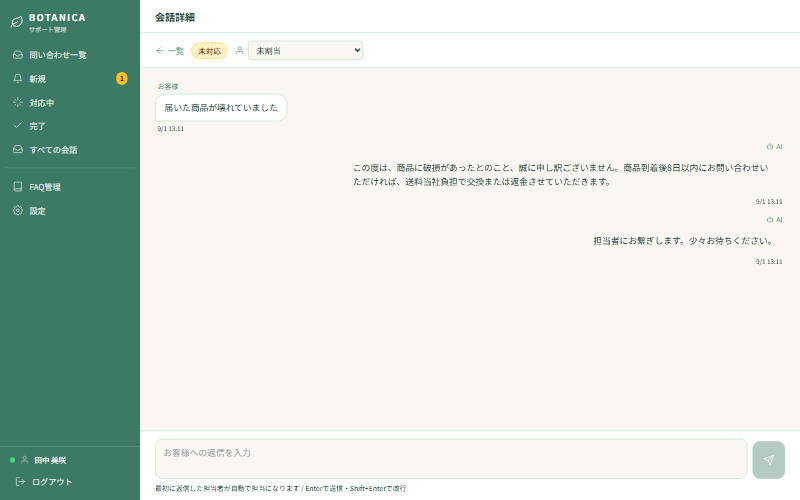
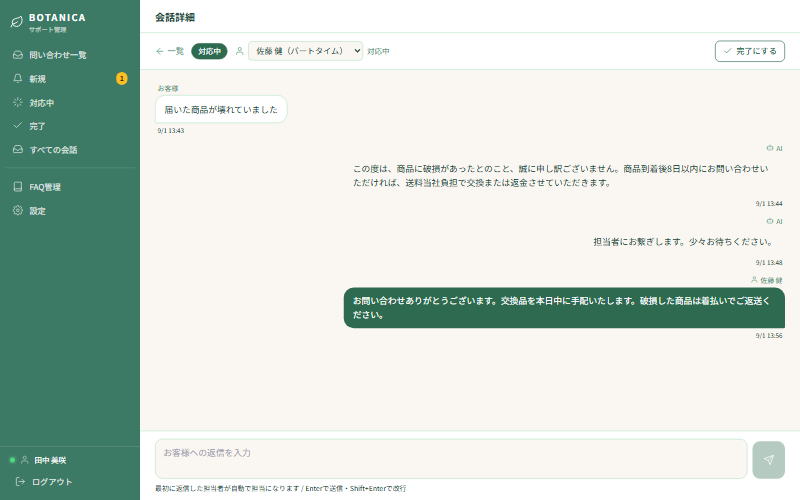
feat: 問い合わせ一覧を未完了のみに絞り込み納品スクショを更新する
「問い合わせ一覧」と「すべての会話」が同じ結果を返しており、
メニューが2つとも同じ働きをしていた。

既定表示（/dashboard）を未完了3ステータス
（ai_handling / waiting_operator / operator_handling）に絞り、
完了済みを含む全件は「すべての会話」（?status=all）で見る形にした。

【絞り込む理由】
一覧は updated_at の降順で最新200件までしか取らない。
完了済みも同じ枠を使うため、件数が増えると対応が必要な古い問い合わせが
200件の外へ押し出されて見えなくなる。月500件のペースだと約12日分で埋まる。
日常業務で見たいのは「対応が必要なもの」なので既定表示は未完了に絞る。

FR-OPS-003「全会話をステータス別で一覧表示する」は、
「すべての会話」と各ステータスタブで引き続き満たしている。

あわせて納品用スクリーンショットを実務フロー想定の内容に更新した。
これまで operator-list.png は1件しか写っておらず、
マニュアルで説明している4つのステータスが伝わらなかった。
AIの回答文は登録済みFAQの本文と検証で確認した実応答をそのまま使い、
テスト用の目印は入れていない。

- operator-list.png   未完了3件（AI対応中・未対応・対応中）
- operator-detail.png 質問→AI案内→引き継ぎ→担当者の返信の一連の流れ

マニュアルの該当箇所も新しい挙動に合わせて更新した。

diff --git a/components/operator/ConversationList.tsx b/components/operator/ConversationList.tsx
@@ -16,18 +16,39 @@ import type { ConversationStatus } from '@/types';
 /** 一覧の取得上限。lib/operatorData.ts の limit と揃えること */
 const LIST_LIMIT = 200;
 
-/** サイドバーの絞り込みをステータス配列に変換する */
+/**
+ * 未完了とみなすステータス。
+ * 「問い合わせ一覧」（既定表示）はこの3つだけを出す。
+ */
+const OPEN_STATUSES: ConversationStatus[] = [
+  'ai_handling',
+  'waiting_operator',
+  'operator_handling',
+];
+
+/**
+ * サイドバーの絞り込みをステータス配列に変換する。
+ *
+ * 【なぜ既定表示から完了を外すか】
+ * 一覧は updated_at の降順で最新200件までしか取らない（LIST_LIMIT）。
+ * 完了済みも同じ枠を使うため、件数が増えると
+ * 対応が必要な古い問い合わせが200件の外へ押し出されて見えなくなる。
+ * 月500件のペースだと約12日分で埋まる計算になる。
+ * 日常業務で見たいのは「対応が必要なもの」なので、既定表示は未完了に絞る。
+ *
+ * 完了済みを含む全件は `?status=all`（すべての会話）で見る。
+ * 以前は既定表示も all と同じ挙動で、メニューが2つとも同じ結果を出していた。
+ */
 function toStatuses(param: string | null): ConversationStatus[] | undefined {
-  if (!param || param === 'all') return undefined;
-  const valid: ConversationStatus[] = [
-    'ai_handling',
-    'waiting_operator',
-    'operator_handling',
-    'closed',
-  ];
+  // 未指定＝「問い合わせ一覧」。未完了だけに絞る
+  if (!param) return OPEN_STATUSES;
+  // 明示的に「すべての会話」を選んだときだけ絞り込まない
+  if (param === 'all') return undefined;
+
+  const valid: ConversationStatus[] = [...OPEN_STATUSES, 'closed'];
   return valid.includes(param as ConversationStatus)
     ? [param as ConversationStatus]
-    : undefined;
+    : OPEN_STATUSES;
 }
 
 /** 相対時刻。一覧では「何分前か」のほうが絶対時刻より把握しやすい */
